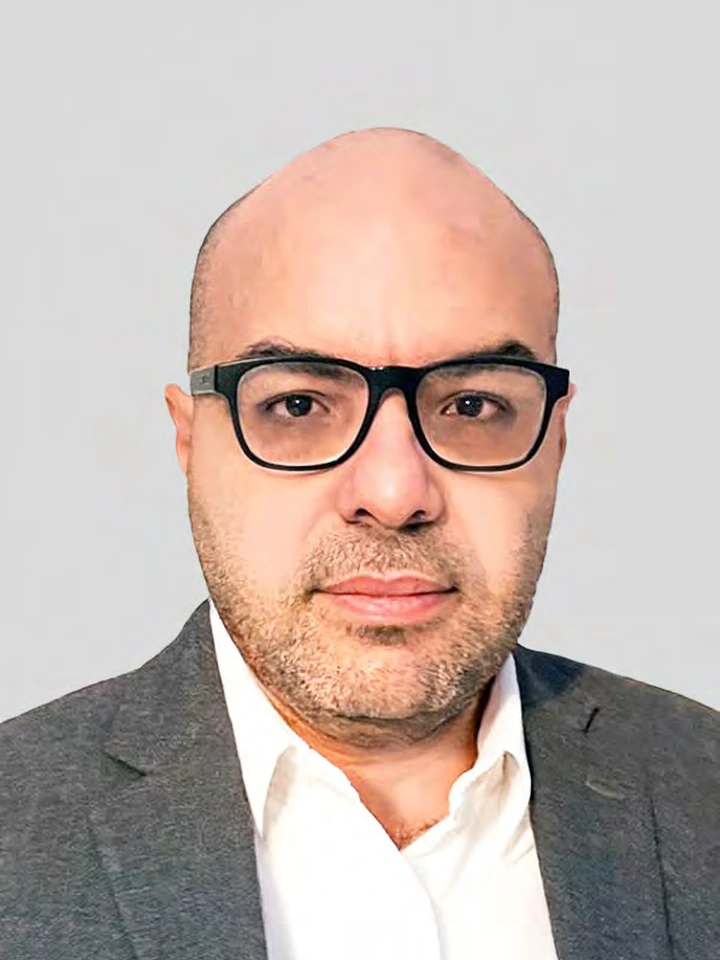
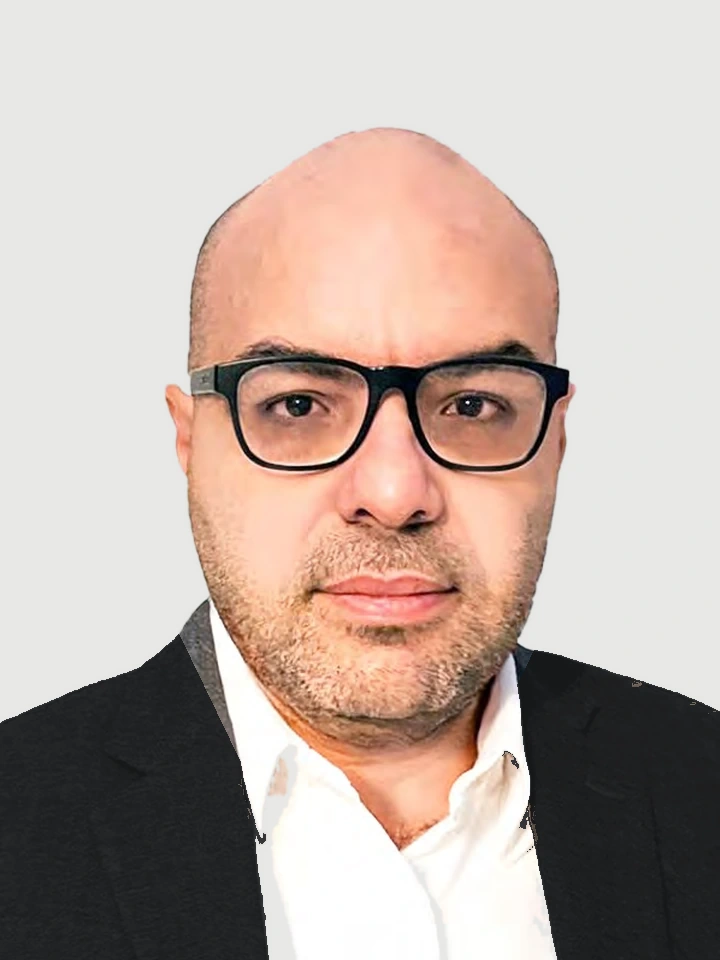
20th draft

Changed region(s): [[0.0, 0.6562, 0.3972, 1.0], [0.7028, 0.6562, 1.0, 1.0]]

diff --git a/index.html b/index.html
@@ -370,7 +370,7 @@
 </div>
 </div>
 </div>
-<section class="decima-section is-white"><div class="container"><div class="section-head-row"><div><span class="section-kicker">Decima’s Expert Leaders</span><h2 class="decima-heading">Leadership built on <span>experience</span></h2><p class="section-intro">Meet the three leaders included in Decima’s website leadership scope: the CEO, COO, and Director of Operations.</p></div><a class="decima-btn is-outline" href="team.html">Meet Our Team <i class="bi bi-arrow-right-short"></i></a></div><div class="leader-grid"><article class="leader-card wow fadeInUp"><div class="leader-photo"><img alt="Alaaeldin El Hadary, CEO" loading="lazy" src="./assets/images/pages/home/team-section/alaaeldin-el-hadary.webp"/></div><div class="leader-body"><h3>Alaaeldin El Hadary</h3><span class="leader-role">CEO</span><p>A global program and project leader with more than 20 years of experience and a strong focus on talent, fundamentals, collaboration, partnership, and social responsibility.</p><a class="leader-link" href="team.html#alaaeldin-el-hadary">Read profile <i class="bi bi-arrow-right"></i></a></div></article><article class="leader-card wow fadeInUp"><div class="leader-photo"><img alt="Amro E. Elhadary, COO" loading="lazy" src="./assets/images/pages/home/team-section/amro-elhadary.webp"/></div><div class="leader-body"><h3>Amro E. Elhadary</h3><span class="leader-role">COO</span><p>A highly accomplished architecture, construction, and project-management professional with more than 25 years of leadership and client-management experience.</p><a class="leader-link" href="team.html#amro-elhadary">Read profile <i class="bi bi-arrow-right"></i></a></div></article><article class="leader-card wow fadeInUp"><div class="leader-photo"><img alt="Ahmed Tawfik, Director of Operations" loading="lazy" src="./assets/images/pages/home/team-section/ahmed-tawfik.webp"/></div><div class="leader-body"><h3>Ahmed Tawfik</h3><span class="leader-role">Director of Operations</span><p>An operations leader with more than 20 years of experience across engineering design, project management, business development, and procurement.</p><a class="leader-link" href="team.html#ahmed-tawfik">Read profile <i class="bi bi-arrow-right"></i></a></div></article></div></div></section>
+<section class="decima-section is-white"><div class="container"><div class="section-head-row"><div><span class="section-kicker">Decima’s Expert Leaders</span><h2 class="decima-heading">Leadership built on <span>experience</span></h2><p class="section-intro">Meet the three leaders included in Decima’s website leadership scope: the CEO, COO, and Director of Operations.</p></div><a class="decima-btn is-outline" href="team.html">Meet Our Team <i class="bi bi-arrow-right-short"></i></a></div><div class="leader-grid"><article class="leader-card wow fadeInUp"><div class="leader-photo"><img alt="Alaaeldin El Hadary, CEO" loading="lazy" src="./assets/images/pages/team/profiles/alaaeldin-el-hadary.webp"/></div><div class="leader-body"><h3>Alaaeldin El Hadary</h3><span class="leader-role">CEO</span><p>A global program and project leader with more than 20 years of experience and a strong focus on talent, fundamentals, collaboration, partnership, and social responsibility.</p><a class="leader-link" href="team.html#alaaeldin-el-hadary">Read profile <i class="bi bi-arrow-right"></i></a></div></article><article class="leader-card wow fadeInUp"><div class="leader-photo"><img alt="Amro E. Elhadary, COO" loading="lazy" src="./assets/images/pages/team/profiles/amro-elhadary.webp"/></div><div class="leader-body"><h3>Amro E. Elhadary</h3><span class="leader-role">COO</span><p>A highly accomplished architecture, construction, and project-management professional with more than 25 years of leadership and client-management experience.</p><a class="leader-link" href="team.html#amro-elhadary">Read profile <i class="bi bi-arrow-right"></i></a></div></article><article class="leader-card wow fadeInUp"><div class="leader-photo"><img alt="Ahmed Tawfik, Director of Operations" loading="lazy" src="./assets/images/pages/team/profiles/ahmed-tawfik.webp"/></div><div class="leader-body"><h3>Ahmed Tawfik</h3><span class="leader-role">Director of Operations</span><p>An operations leader with more than 20 years of experience across engineering design, project management, business development, and procurement.</p><a class="leader-link" href="team.html#ahmed-tawfik">Read profile <i class="bi bi-arrow-right"></i></a></div></article></div></div></section>
 <section class="decima-section location-map-section"><div class="container map-layout"><div class="section-head-row"><div><span class="section-kicker">Global Project Footprint</span><h2 class="decima-heading">Project experience across <span>the world</span></h2><p class="section-intro">Explore Decima’s project locations across the Americas, EMEA, and APAC. Hover or focus on a location marker to see its name.</p></div></div><div class="project-map"><div aria-label="Filter project locations" class="map-filter"><button class="is-active" data-map-filter="All" type="button">All Regions</button><button data-map-filter="Americas" type="button">Americas</button><button data-map-filter="EMEA" type="button">EMEA</button><button data-map-filter="APAC" type="button">APAC</button></div><div class="map-canvas"><img alt="World map" class="map-base" src="./assets/images/pages/home/map/world-map.svg"/><div aria-live="polite" class="map-tooltip" role="status"></div></div><button aria-expanded="false" class="location-directory-toggle" type="button">View all project locations</button><div class="location-directory"></div></div></div></section>
 <div class="blog-area one decima-home-blog">
 <div class="container">

diff --git a/assets/css/decima.css b/assets/css/decima.css
@@ -2827,3 +2827,102 @@ body .project-area.one.decima-template-projects .single-project-box.upper .proje
   .project-results-toolbar { display: block; }
   .project-results-hint { margin-top: 7px; text-align: left; }
 }
+
+
+/* ========================================================================== 
+   Team portrait + services card refinements - August 9, 2026
+   Requested updates:
+   - Keep leadership portraits in identical, stable frames everywhere.
+   - Prevent portrait images from stretching or sinking inside their columns.
+   - Use a consistent neutral photo-frame background.
+   - Make Services overview cards square and keep service imagery in full color.
+   ========================================================================== */
+
+/* Leadership portraits: one consistent frame system across Home + Team pages. */
+.leader-photo,
+.team-profile-photo {
+  background: #e8e8e6;
+  overflow: hidden;
+}
+
+.leader-photo {
+  height: auto !important;
+  aspect-ratio: 4 / 5;
+}
+
+.leader-photo img,
+.team-profile-photo img {
+  display: block;
+  width: 100% !important;
+  height: 100% !important;
+  max-height: none !important;
+  object-fit: contain !important;
+  object-position: center center !important;
+}
+
+/* Keep Team-page portraits aligned to the top of each profile and identical in size. */
+.team-profile-photo {
+  width: 100%;
+  aspect-ratio: 4 / 5;
+  max-height: 700px;
+  box-shadow: var(--decima-shadow);
+}
+
+.team-profile-photo img {
+  box-shadow: none !important;
+}
+
+/* Remove image-treatment variation so the same source portrait renders consistently. */
+.leader-photo img,
+.leader-card:hover .leader-photo img {
+  filter: none !important;
+}
+
+/* Services overview: square cards with full-color photography. */
+.services-page .decima-service-card {
+  min-height: 0 !important;
+  height: auto !important;
+  aspect-ratio: 1 / 1;
+}
+
+.services-page .decima-service-card img,
+.services-page .decima-service-card:hover img,
+.services-page .decima-service-card:focus-within img {
+  filter: none !important;
+}
+
+/* Square cards remain square on touch/tablet layouts; content can scroll inside overlay. */
+@media (hover: none), (max-width: 991px) {
+  .services-page .decima-service-card {
+    min-height: 0 !important;
+    aspect-ratio: 1 / 1;
+  }
+
+  .services-page .service-card-content {
+    max-height: calc(100% - 18px);
+  }
+}
+
+@media (max-width: 767px) {
+  .leader-photo,
+  .team-profile-photo {
+    aspect-ratio: 4 / 5;
+  }
+
+  .leader-photo img,
+  .team-profile-photo img {
+    height: 100% !important;
+    object-position: center center !important;
+  }
+}
+
+
+/* Services overview: the entire card is a direct link to its service detail page. */
+.services-page .decima-service-card.is-clickable {
+  cursor: pointer !important;
+}
+
+.services-page .decima-service-card.is-clickable:focus-visible {
+  outline: 3px solid var(--decima-burgundy);
+  outline-offset: 4px;
+}

diff --git a/assets/js/decima.js b/assets/js/decima.js
@@ -278,6 +278,26 @@
     });
   }
 
+  function initClickableServiceCards() {
+    document.querySelectorAll('.services-page .decima-service-card').forEach((card) => {
+      const link = card.querySelector('.service-card-content .text-link[href]');
+      if (!link) return;
+
+      card.classList.add('is-clickable');
+
+      const openService = () => {
+        window.location.href = link.href;
+      };
+
+      card.addEventListener('click', (event) => {
+        /* Keep the existing text link behaving normally; everything else opens the card. */
+        if (event.target.closest('a, button, input, select, textarea')) return;
+        openService();
+      });
+
+    });
+  }
+
   function initCurrentYear() {
     document.querySelectorAll('[data-current-year]').forEach((item) => {
       item.textContent = String(new Date().getFullYear());
@@ -294,6 +314,7 @@
     initProjectFilters();
     initContactForm();
     initSidebarAccessibility();
+    initClickableServiceCards();
     initCurrentYear();
     initReducedMotion();
   });

diff --git a/PHOTO_AND_SERVICE_CARD_UPDATE_NOTES.md b/PHOTO_AND_SERVICE_CARD_UPDATE_NOTES.md
@@ -1,0 +1,14 @@
+# Photo and Service Card Update Notes
+
+## Implemented
+
+- Leadership images now use one consistent 4:5 frame on the Home and Team pages, with stable sizing and top-to-bottom alignment so they no longer stretch or sink in the layout.
+- The three current leader portraits were normalized onto the same light neutral gray background, and the visible jacket tones were harmonized toward the same dark executive palette while preserving the original faces.
+- Home-page leader cards now reference the same centralized profile files used by the Team page, so future replacements in `assets/images/pages/team/profiles/` propagate everywhere those leaders currently appear.
+- The original portrait assets were preserved under `assets/images/_archive/leadership-originals/`.
+- Services overview cards on `services.html` are now square.
+- Black-and-white/grayscale filtering was removed from the Services overview card imagery, including hover and focus states.
+
+## Waist-shot source limitation
+
+The supplied leader files are tightly cropped head-and-shoulders portraits and do not contain waist-level body detail. Their framing is now consistent and less visually oversized, but a true waist-up composition would require source photos that actually include the missing lower-body area or a dedicated generative portrait edit. Replacing the three centralized profile files later will automatically update both the Team page and Home-page leadership section.
